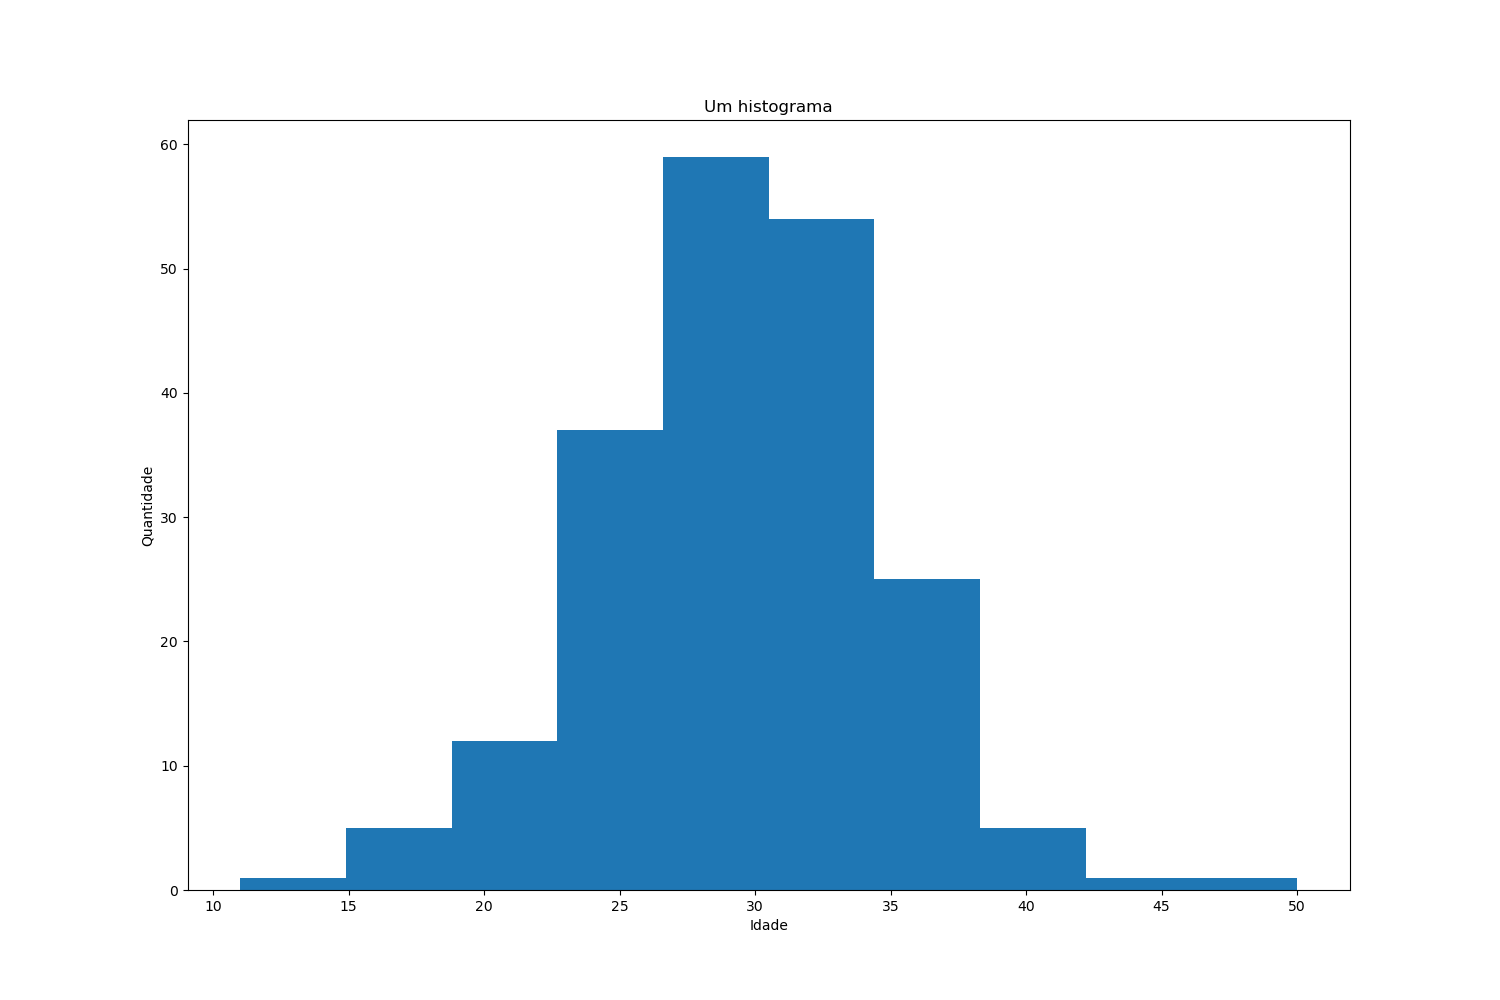
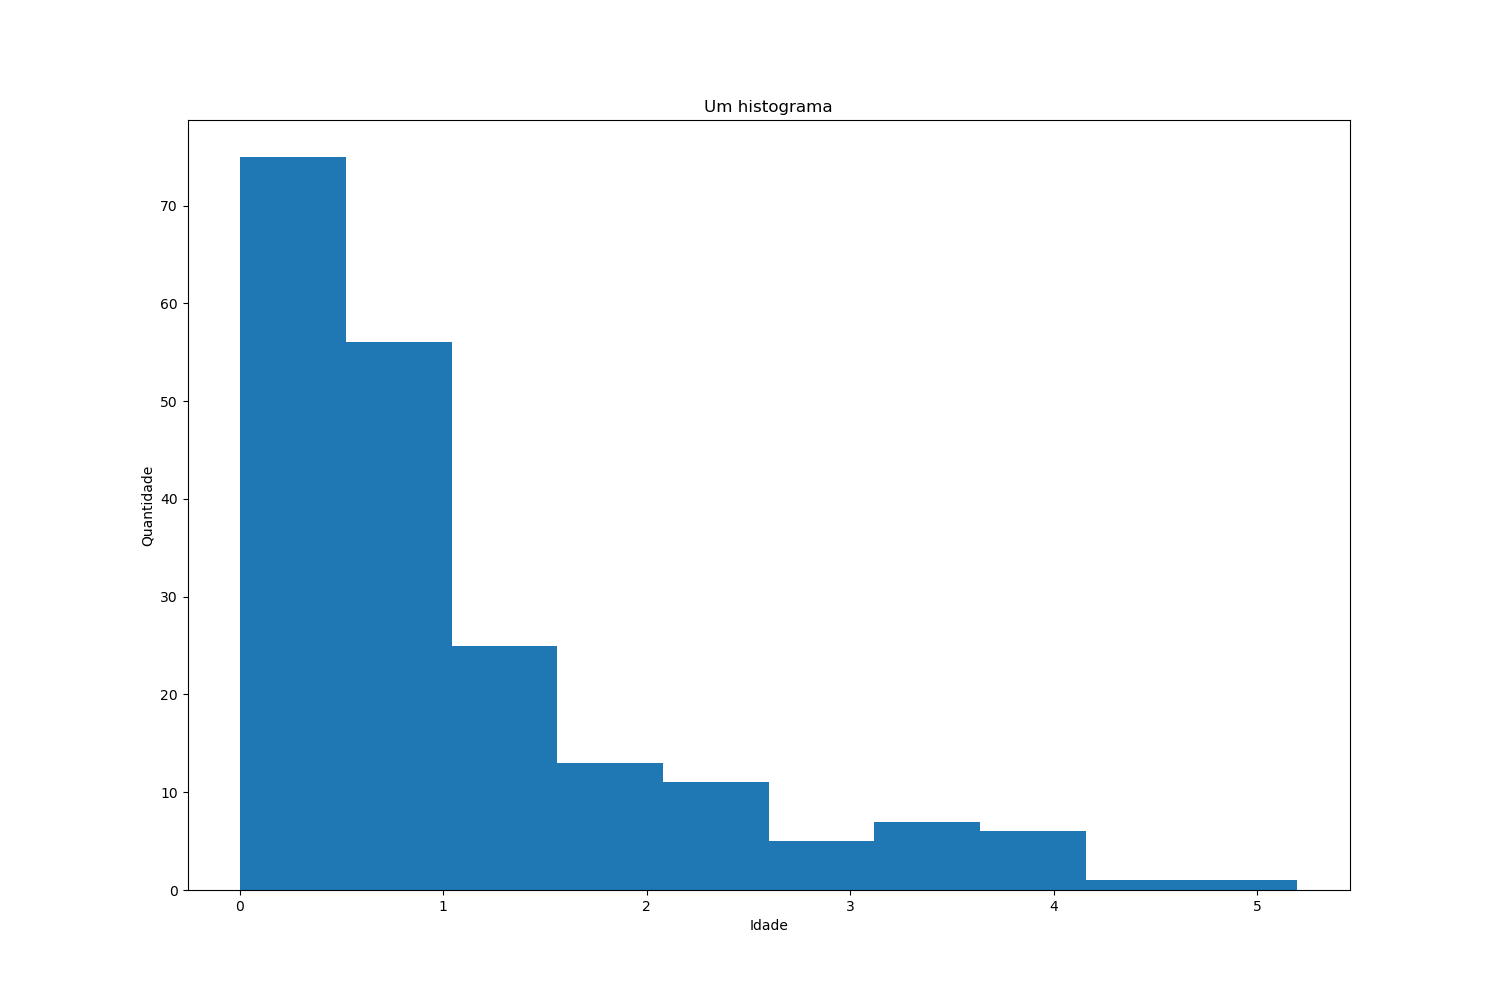
Adição de gráficos

Changed region(s): [[0.1533, 0.155, 0.6747, 0.899], [0.092, 0.496, 0.1227, 0.527], [0.092, 0.372, 0.1227, 0.403]]

diff --git a/plot.py b/plot.py
@@ -8,7 +8,11 @@ ax.set_title('Um histograma')
 ax.set_xlabel('Idade')
 ax.set_ylabel('Quantidade')
 
-idades = np.random.normal(30,5, size=200).astype(int)
+#Distribuição normal
+#idades = np.random.normal(30,5, size=200).astype(int)
+#Distribuição exponencial
+idades = np.random.exponential(1, size=200)
+
 ax.hist(idades)
 
 plt.savefig('./grafico.png')
